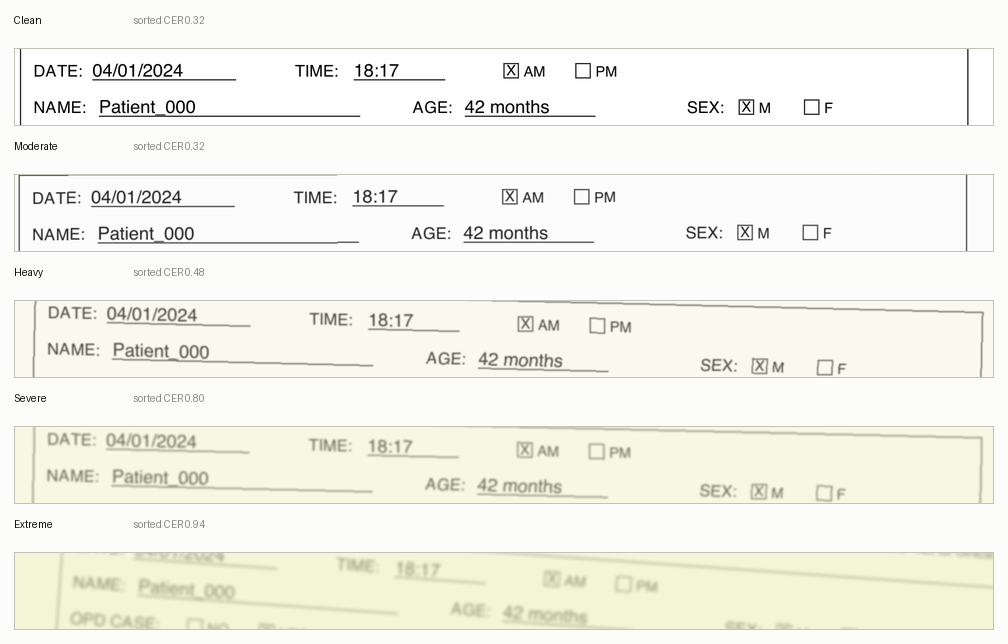
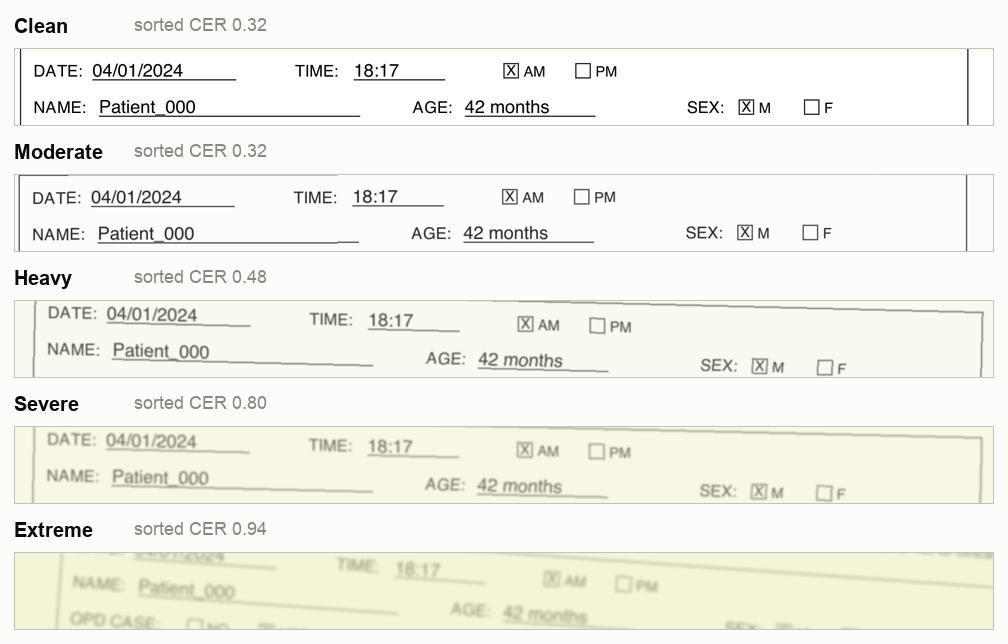
Fix figure font loading on macOS

diff --git a/src/make_figures.py b/src/make_figures.py
@@ -506,25 +506,48 @@ def plot_field_errors(rules_errors, llm_errors, form_count):
     return save_figure(figure, "field_errors_heavy.png")
 
 
+# Candidate label faces, in preference order. The first entry that loads wins.
+# Linux and macOS keep their system sans in different places, and the labels are
+# unreadable if this falls through to a fixed size bitmap font.
+FONT_CANDIDATES = {
+    False: [
+        "/usr/share/fonts/truetype/dejavu/DejaVuSans.ttf",
+        "/System/Library/Fonts/Supplemental/Arial.ttf",
+        "/Library/Fonts/Arial.ttf",
+        "/System/Library/Fonts/Helvetica.ttc",
+    ],
+    True: [
+        "/usr/share/fonts/truetype/dejavu/DejaVuSans-Bold.ttf",
+        "/System/Library/Fonts/Supplemental/Arial Bold.ttf",
+        "/Library/Fonts/Arial Bold.ttf",
+        "/System/Library/Fonts/Helvetica.ttc",
+    ],
+}
+
+
 def load_ladder_font(size, bold=False):
-    """Return a DejaVu font at the requested size, or the PIL default.
+    """Return a scalable sans face at the requested size.
 
     Parameters
     size
         Point size to load.
     bold
-        Whether to load the bold face.
+        Whether to prefer the bold face.
 
     Returns
     font
-        A PIL font object. Falls back to the bitmap default when DejaVu is not
-        installed, which changes the label size but not the figure content.
+        A PIL font object honoring the requested size. Falls back to Pillow's
+        scalable default only if no system face is found, never to the fixed
+        size bitmap default, which silently ignores the size and renders the
+        tier labels too small to read.
     """
-    face = "DejaVuSans-Bold.ttf" if bold else "DejaVuSans.ttf"
-    try:
-        return ImageFont.truetype(f"/usr/share/fonts/truetype/dejavu/{face}", size)
-    except OSError:
-        return ImageFont.load_default()
+    for path in FONT_CANDIDATES[bold]:
+        try:
+            return ImageFont.truetype(path, size)
+        except OSError:
+            continue
+
+    return ImageFont.load_default(size=size)
 
 
 def build_noise_ladder(calibration_rows):
